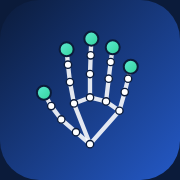
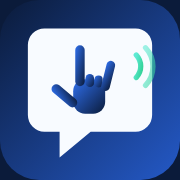
Conversar en dos funciones independientes e ícono nuevo
- Conversar: «Soy oyente» (cámara: señas a texto) y «Soy una persona sorda» (micrófono: voz a texto), cada una con su botón; sin conexión entre celulares
- Se quitan la respuesta escrita y el giro del cuadro
- Ícono: mensaje con la seña de «te quiero»
- Service worker v10

Claude-Session: https://claude.ai/code/session_01RnkyudBeR58EinqmkUdn72

diff --git a/app.js b/app.js
@@ -207,7 +207,7 @@ function handleFrame(ts, frame) {
     setStageMsg(transSeg.active ? `Capturando… ${transSeg.count} frames` : has ? 'Manos detectadas' : 'Esperando manos…');
     if (out) onTranslateSegment(out);
   } else if (tab === 'converse') {
-    if (!cvOn) return;
+    if (!cvCam) return;
     const out = transSeg.push(ts, frame);
     setStageMsg(transSeg.active ? `Capturando seña… ${transSeg.count}` : has ? 'Manos detectadas' : 'Esperando señas…');
     if (out) onConverseSegment(out);
@@ -325,15 +325,15 @@ $('#setLefty').onchange = e => { S.lefty = e.target.checked; saveS(); };
 $('#setSpeak').onchange = e => { S.speak = e.target.checked; saveS(); };
 
 // ---------- Conversar ----------
-let cvOn = false, recog = null, micOn = false;
+// Dos funciones independientes en el mismo celular: señas -> texto (cámara, para quien oye) y voz -> texto (micrófono, para la persona sorda).
+let cvCam = false, recog = null, micOn = false;
 const voiceLines = [], signLines = []; // signLines: [{t, words:[]}]
 let cvLast = null;
 const SR = window.SpeechRecognition || window.webkitSpeechRecognition;
 
 function cvRender() {
-  const esc2 = esc;
-  $('#cvVoiceLog').innerHTML = voiceLines.slice(-6).map(t => `<p class="ln">${esc2(t)}</p>`).join('');
-  $('#cvSignLog').innerHTML = signLines.slice(-6).map(l => `<p class="ln">${l.words.map(w => w || '¿?').map(esc2).join(' ')}</p>`).join('');
+  $('#cvVoiceLog').innerHTML = voiceLines.slice(-6).map(t => `<p class="ln">${esc(t)}</p>`).join('');
+  $('#cvSignLog').innerHTML = signLines.slice(-6).map(l => `<p class="ln">${l.words.map(w => w || '¿?').map(esc).join(' ')}</p>`).join('');
   const alt = $('#cvAlt'); alt.innerHTML = '';
   if (cvLast && cvLast.ranks.length) {
     cvLast.ranks.slice(0, 3).forEach(r => {
@@ -345,14 +345,13 @@ function cvRender() {
 }
 function cvApplySettings() {
   $('#tab-converse').style.setProperty('--cvsize', S.cvSize + 'px');
-  $('#cvSize').value = S.cvSize; $('#cvSign').classList.toggle('flip', S.cvFlip); $('#cvFlipBtn').setAttribute('aria-pressed', S.cvFlip); $('#cvFlipBtn').textContent = S.cvFlip ? 'Volver a enderezar' : 'Girar cuadro';
+  $('#cvSize').value = S.cvSize;
 }
 $('#cvSize').oninput = e => { S.cvSize = +e.target.value; saveS(); cvApplySettings(); };
-$('#cvFlipBtn').onclick = () => { S.cvFlip = !S.cvFlip; saveS(); cvApplySettings(); };
 
 function onConverseSegment(res) {
   if (!res.ok) return;
-  if (!lib.length) { $('#cvMsg').textContent = 'Todavía no hay vocabulario cargado en esta versión de la app.'; return; }
+  if (!lib.length) { $('#cvCamMsg').textContent = 'Todavía no hay vocabulario cargado en esta versión de la app.'; return; }
   const ranks = rank(prepare(resample(res.frames)), lib), thr = threshold();
   const word = ranks[0].dist <= thr ? ranks[0].word : null;
   const now = Date.now();
@@ -365,7 +364,7 @@ function onConverseSegment(res) {
 
 function addSpeech(text) { if (text) { voiceLines.push(text); cvRender(); } }
 function startMic() {
-  if (!SR) { $('#cvMsg').textContent = 'Este navegador no trae reconocimiento de voz: la parte de señas funciona igual. Para voz usá Chrome en Android o en computadora.'; return false; }
+  if (!SR) { $('#cvMicMsg').textContent = 'Este navegador no trae reconocimiento de voz. Probá con Chrome en Android o en computadora.'; return false; }
   recog = new SR(); recog.lang = 'es-AR'; recog.continuous = true; recog.interimResults = true;
   recog.onresult = e => {
     if (speakingNow) return;
@@ -379,32 +378,37 @@ function startMic() {
   recog.onend = () => { if (micOn) { try { recog.start(); } catch (e) { /* ya activo */ } } };
   recog.onerror = e => {
     if (e.error === 'not-allowed' || e.error === 'service-not-allowed') {
-      micOn = false; $('#micDot').classList.remove('on');
-      $('#cvMsg').textContent = 'Sin permiso para el micrófono. Habilitalo en el navegador para ver lo que dice la otra persona.';
+      micOn = false; $('#micDot').classList.remove('on'); micBtnUI();
+      $('#cvMicMsg').textContent = 'Sin permiso para el micrófono. Habilitalo en el navegador para ver lo que dicen.';
     }
   };
   micOn = true;
-  try { recog.start(); } catch (e) { return false; }
+  try { recog.start(); } catch (e) { micOn = false; return false; }
   $('#micDot').classList.add('on');
   return true;
 }
-function stopMic() { micOn = false; try { recog && recog.stop(); } catch (e) { /* nada */ } $('#micDot').classList.remove('on'); $('#cvInterim').textContent = ''; }
-function converseStop() {
-  if (!cvOn && !micOn) return;
-  cvOn = false; stopMic();
-  $('#cvStart').style.display = ''; $('#cvStop').style.display = 'none';
+function stopMic() { micOn = false; try { recog && recog.stop(); } catch (e) { /* nada */ } $('#micDot').classList.remove('on'); $('#cvInterim').textContent = ''; micBtnUI(); }
+function micBtnUI() {
+  $('#cvMicBtn').lastChild.textContent = micOn ? 'Apagar micrófono' : 'Activar micrófono';
+  $('#cvMicBtn').className = micOn ? 'wide' : 'pri wide';
+  if (micOn) $('#cvMicMsg').textContent = 'Escuchando… lo que digan aparece acá.';
 }
-$('#cvStart').onclick = async () => {
-  cvOn = true; $('#cvStart').style.display = 'none'; $('#cvStop').style.display = '';
-  $('#cvMsg').textContent = 'Escuchando y mirando. Hablá o señá con las manos en cuadro.';
-  startMic();
+function camBtnUI() {
+  $('#cvCamBtn').textContent = cvCam ? 'Apagar cámara' : 'Activar cámara';
+  $('#cvCamBtn').className = cvCam ? 'wide' : 'pri wide';
+}
+function converseStop() {
+  if (cvCam) { cvCam = false; camBtnUI(); }
+  if (micOn) stopMic();
+}
+$('#cvCamBtn').onclick = async () => {
+  if (cvCam) { cvCam = false; await stopSource(); camBtnUI(); $('#cvCamMsg').textContent = ''; return; }
+  cvCam = true; camBtnUI(); $('#cvCamMsg').textContent = 'Mirando… poné las manos de la persona en cuadro y bajalas entre una seña y otra.';
   await startCamera();
+  if (mode !== 'camera') { cvCam = false; camBtnUI(); }
 };
-$('#cvStop').onclick = () => { converseStop(); stopSource(); $('#cvMsg').textContent = 'Conversación terminada.'; };
+$('#cvMicBtn').onclick = () => { if (micOn) stopMic(); else { if (startMic()) micBtnUI(); } };
 $('#cvClear').onclick = () => { voiceLines.length = 0; signLines.length = 0; cvLast = null; cvRender(); };
-$('#cvSay').onclick = () => { const v = $('#cvType').value.trim(); if (v) { speak(v); voiceLines.push('Tú: ' + v); cvRender(); $('#cvType').value = ''; } };
-$('#cvType').addEventListener('keydown', e => { if (e.key === 'Enter') $('#cvSay').click(); });
-
 
 // ---------- Grabar video con subtítulos para compartir ----------
 // Se dibuja cámara + subtítulos en un canvas y se graba ese canvas. Nada se sube: se comparte desde el celular.
@@ -504,6 +508,7 @@ function updateUI() {
 function showTab(name) {
   tab = name; transSeg.reset();
   if (name !== 'converse') converseStop();
+  (name === 'converse' ? $('#cvStageSlot') : $('main')).insertBefore(stage, name === 'converse' ? null : $('#tab-translate'));
   document.querySelectorAll('nav button').forEach(b => b.classList.toggle('on', b.dataset.tab === name));
   document.querySelectorAll('main > section').forEach(s => s.classList.toggle('on', s.id === 'tab-' + name));
   if (name === 'collab' || name === 'data') { if (mode) stopSource(); }
@@ -514,7 +519,7 @@ $('#btnCam').onclick = () => (mode === 'camera' ? stopSource() : startCamera());
 
 // ---------- Inicio ----------
 (async function init() {
-  loadSettingsUI(); cvApplySettings(); cvRender(); renderTranscript(); updateUI();
+  loadSettingsUI(); cvApplySettings(); cvRender(); micBtnUI(); camBtnUI(); renderTranscript(); updateUI();
   await loadLibrary();
   if ('serviceWorker' in navigator) navigator.serviceWorker.register('sw.js').catch(() => {});
   window.__lsa = { get lib() { return lib; }, get meta() { return libMeta; }, S, rank, prepare, resample };

diff --git a/index.html b/index.html
@@ -53,7 +53,7 @@ button.ghost{background:transparent}
 .tag.hear{background:color-mix(in srgb,var(--ok) 22%,transparent);color:var(--ok)}
 .who{display:flex;justify-content:space-between;align-items:flex-start;gap:8px}
 .who button{min-height:36px;padding:6px 12px;font-size:.85rem}
-#cvSign.flip .rot{transform:rotate(180deg)}
+
 button.ok{background:var(--ok);color:var(--ok-ink);border-color:var(--ok);font-weight:700}
 button.bad{color:var(--bad)}
 button.big-btn{flex:1;min-width:160px;font-size:1.05rem;padding:14px 16px}
@@ -140,37 +140,33 @@ a{color:var(--acc)}
 
   <!-- CONVERSAR -->
   <section id="tab-converse">
-    <p class="mut hint" id="cvMsg">Apoyá el celular en la mesa, apuntando a la persona sorda. La app escucha a quien habla y mira las señas, y escribe las dos cosas.</p>
-    <button id="cvStart" class="pri wide">Empezar conversación</button>
-    <button id="cvStop" class="wide" style="display:none">Terminar conversación</button>
+    <p class="mut hint">Cada persona usa la app en su propio celular, sin conectarlos. Elegí lo que necesitás; podés usar las dos cosas a la vez.</p>
 
-    <div class="card" id="cvVoice">
-      <span class="tag deaf">Para la persona sorda</span>
-      <h3><span class="mic" id="micDot"></span>Lo que dice quien oye</h3>
+    <div class="card">
+      <span class="tag hear">Soy oyente</span>
+      <h3>Entender las señas de la otra persona</h3>
+      <p class="mut">Apuntá la cámara a la persona sorda. Lo que seña se escribe acá abajo.</p>
+      <button id="cvCamBtn" class="pri wide">Activar cámara</button>
+      <div id="cvStageSlot"></div>
+      <div id="cvCamMsg" class="mut" role="status" aria-live="polite"></div>
+      <div id="cvSignLog" class="big"></div>
+      <div id="cvAlt" class="row"></div>
+    </div>
+
+    <div class="card">
+      <span class="tag deaf">Soy una persona sorda</span>
+      <h3>Leer lo que me dicen</h3>
+      <p class="mut">Apoyá tu celular cerca de quien habla. Lo que dice se escribe acá, con letra grande, sin leer los labios.</p>
+      <button id="cvMicBtn" class="pri wide"><span class="mic" id="micDot"></span>Activar micrófono</button>
+      <div id="cvMicMsg" class="mut" role="status" aria-live="polite"></div>
       <div id="cvVoiceLog" class="big"></div>
       <div id="cvInterim" class="big mut" style="min-height:0"></div>
     </div>
 
-    <div class="card" id="cvSign">
-      <div class="who">
-        <span class="tag hear">Para quien oye</span>
-        <button id="cvFlipBtn" class="ghost" aria-pressed="false" title="Gira este cuadro para leerlo desde el otro lado de la mesa">Girar cuadro</button>
-      </div>
-      <div class="rot">
-        <h3>Lo que seña la persona sorda</h3>
-        <div id="cvSignLog" class="big"></div>
-        <div id="cvAlt" class="row"></div>
-      </div>
-    </div>
-
-    <div class="card">
-      <label for="cvType">Responder escribiendo (la app lo dice en voz alta)</label>
-      <input type="text" id="cvType" placeholder="Escribí acá y tocá Decir">
-      <div class="row"><button id="cvSay" class="ok">Decir en voz alta</button><button id="cvClear" class="ghost">Borrar todo</button></div>
-    </div>
     <div class="card">
       <label for="cvSize">Tamaño de letra</label>
       <input type="range" id="cvSize" min="18" max="64" value="32" style="width:100%">
+      <div class="row"><button id="cvClear" class="ghost">Borrar todo</button></div>
     </div>
     <p class="mut">Privacidad: el reconocimiento de voz del navegador (Chrome) envía el audio a Google para transcribirlo. Las señas se procesan en el teléfono y no se guarda ni se envía video.</p>
   </section>

diff --git a/sw.js b/sw.js
@@ -1,6 +1,6 @@
 // Service worker: la app funciona sin conexión después de la primera carga.
 // Cachea el código propio y los archivos de MediaPipe (CDN + modelo) a medida que se piden.
-const CACHE = 'appsign-v9';
+const CACHE = 'appsign-v10';
 const SHELL = ['./', 'index.html', 'app.js', 'core.js', 'config.js', 'library.json', 'manifest.webmanifest', 'icon.svg', 'privacy.html', 'icon-192.png', 'icon-512.png', 'icon-maskable-512.png', 'icon-180.png'];
 const EXTERNAL = ['cdn.jsdelivr.net', 'storage.googleapis.com'];
 
